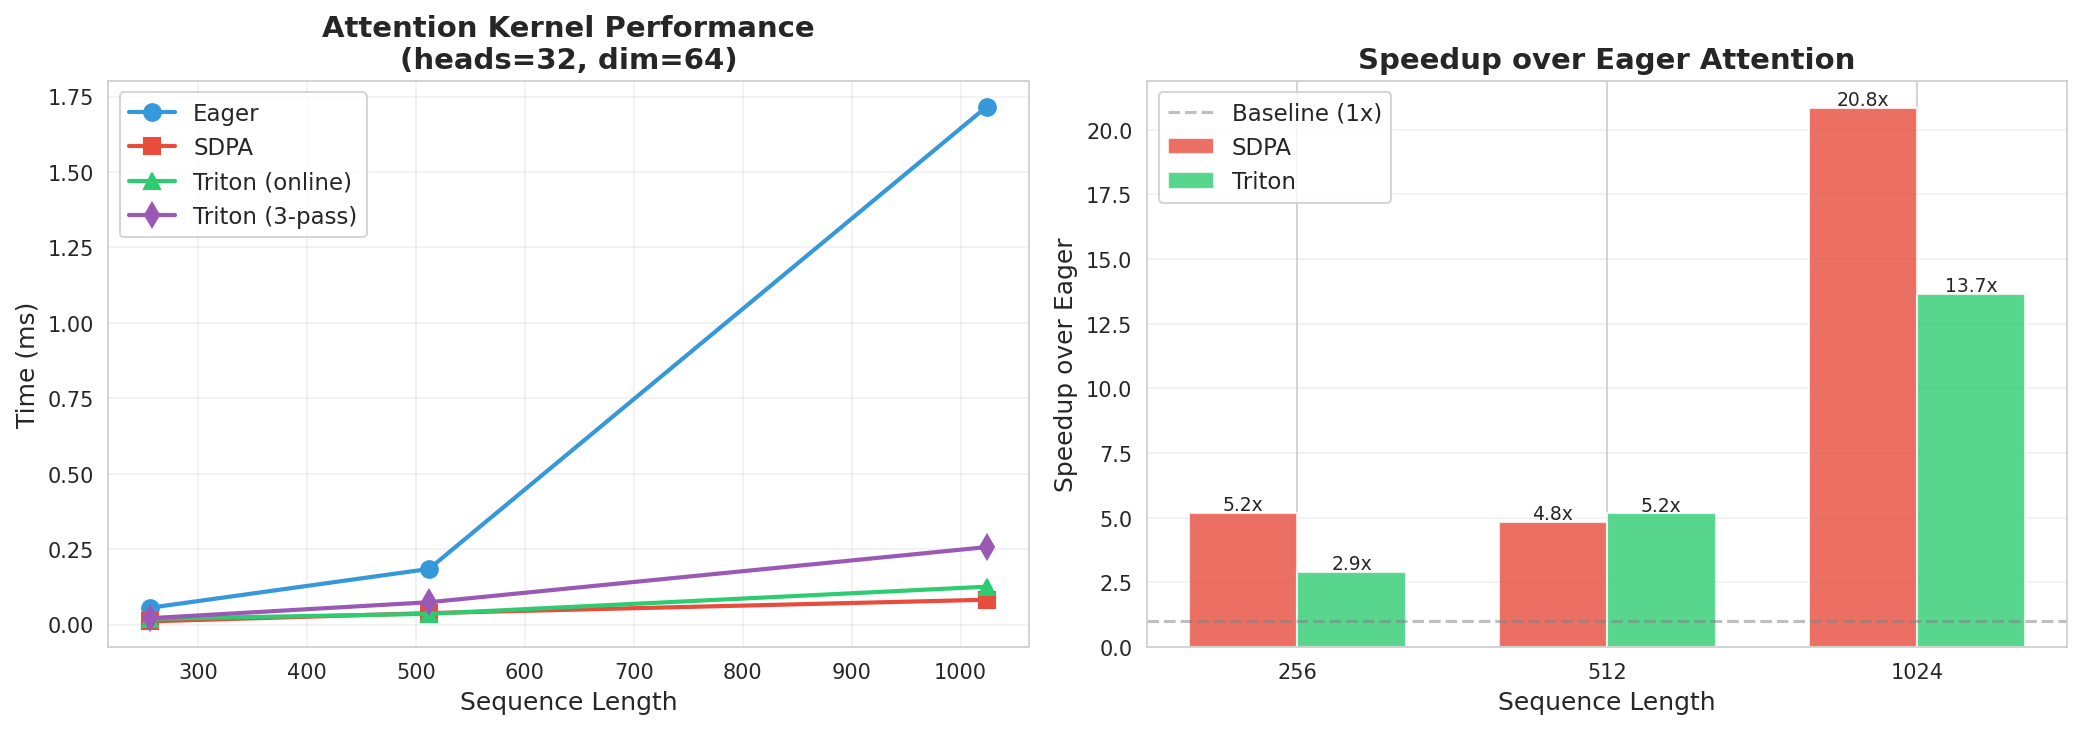
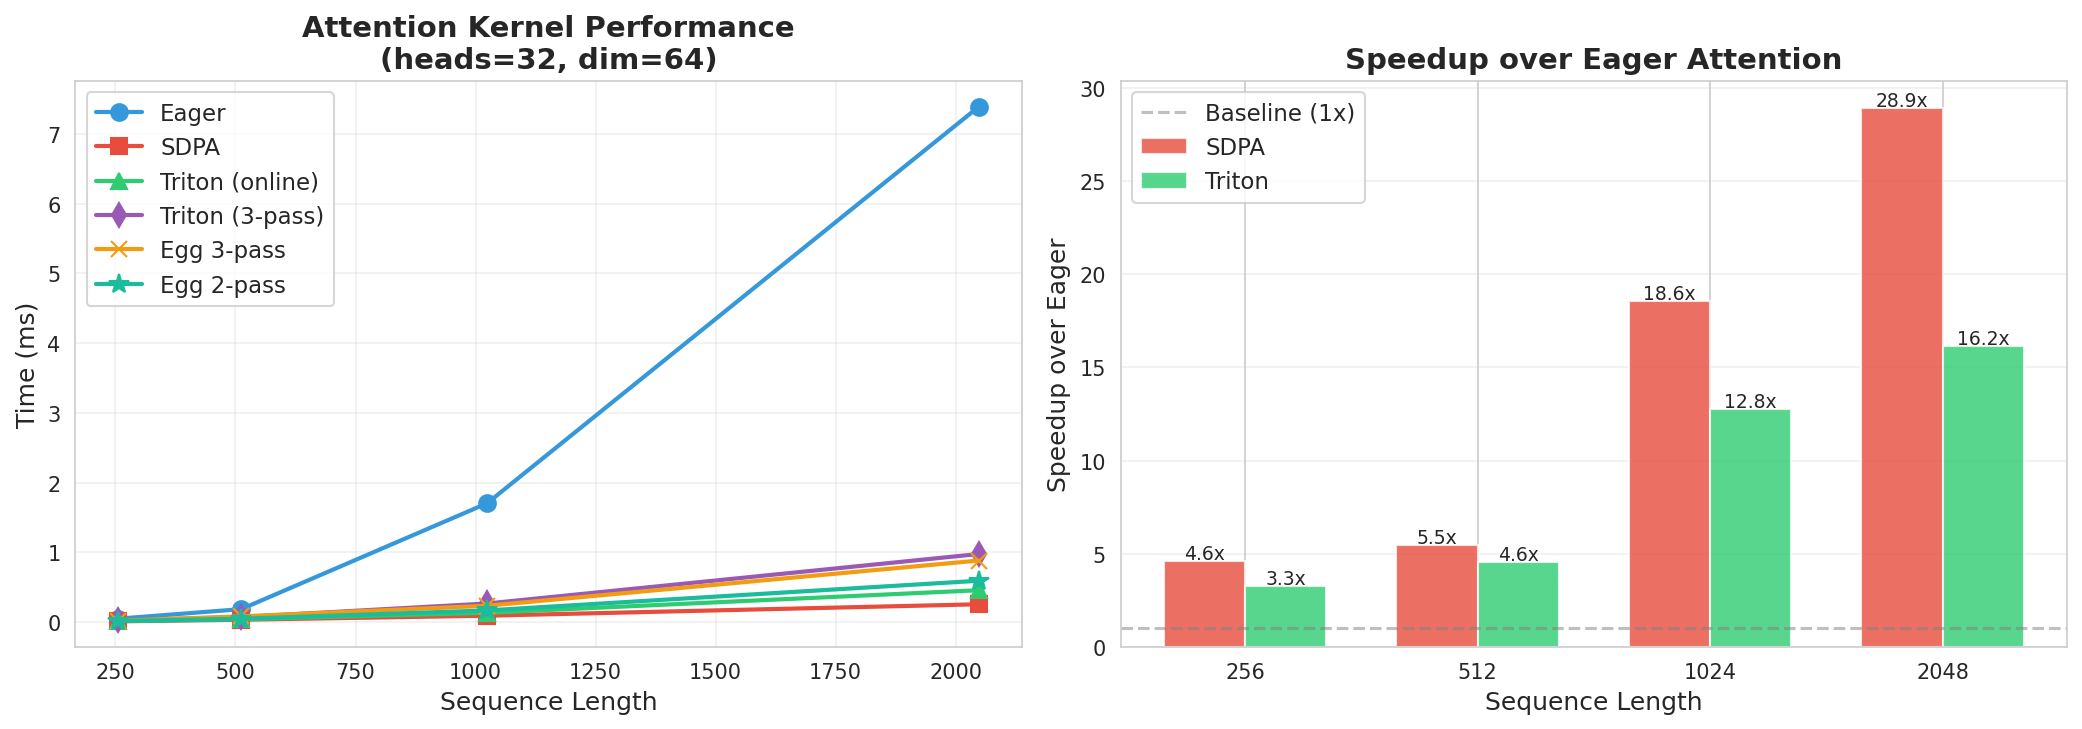
feat: added 2 pass parser

diff --git a/kernel_benchmark.py b/kernel_benchmark.py
@@ -24,6 +24,10 @@ import seaborn as sns
 # Import our Triton implementations
 from triton_attention import triton_naive_attention, triton_truly_naive_attention
 
+# Import egglog-generated attention kernels
+from generated_attention import egg_attention_triton as egg_3pass_attention
+from generated_2pass_attention import egg_attention_2pass_triton as egg_2pass_attention
+
 
 # ============================================================================
 # Attention Implementations
@@ -79,6 +83,27 @@ def triton_truly_naive(Q, K, V, scale, causal=True):
     return triton_truly_naive_attention(Q, K, V, scale=scale, causal=causal)
 
 
+def egg_3pass(Q, K, V, scale, causal=True):
+    """
+    Egglog-generated 3-pass attention (no causal support yet)
+    - Pass 1: Compute QK, find row max
+    - Pass 2: Compute exp sum
+    - Pass 3: Compute output
+    """
+    # Note: egglog-generated kernel doesn't support causal masking yet
+    return egg_3pass_attention(Q, K, V, scale=scale)
+
+
+def egg_2pass(Q, K, V, scale, causal=True):
+    """
+    Egglog-generated 2-pass tiled attention (FuseMax algorithm)
+    - Pass 1: Find global max from local tile maxes
+    - Pass 2: Apply correction factor, compute output
+    """
+    # Note: egglog-generated kernel doesn't support causal masking yet
+    return egg_2pass_attention(Q, K, V, scale=scale)
+
+
 # ============================================================================
 # Verification
 # ============================================================================
@@ -91,20 +116,32 @@ def verify_correctness(Q, K, V, scale, tolerance=0.01):
         True if all implementations match within tolerance
     """
     with torch.no_grad():
+        # Causal versions
         out_eager = eager_attention(Q, K, V, scale, causal=True)
         out_sdpa = sdpa_attention(Q, K, V, scale, causal=True)
         out_triton = triton_attention(Q, K, V, scale, causal=True)
         out_truly_naive = triton_truly_naive(Q, K, V, scale, causal=True)
 
+        # Non-causal reference for egglog kernels
+        out_eager_nc = eager_attention(Q, K, V, scale, causal=False)
+        out_egg_3pass = egg_3pass(Q, K, V, scale, causal=False)
+        out_egg_2pass = egg_2pass(Q, K, V, scale, causal=False)
+
     diff_sdpa = (out_eager - out_sdpa).abs().max().item()
     diff_triton = (out_eager - out_triton).abs().max().item()
     diff_truly_naive = (out_eager - out_truly_naive).abs().max().item()
+    diff_egg_3pass = (out_eager_nc - out_egg_3pass).abs().max().item()
+    diff_egg_2pass = (out_eager_nc - out_egg_2pass).abs().max().item()
 
     print(f"  Max diff eager vs SDPA:         {diff_sdpa:.6f}")
     print(f"  Max diff eager vs Triton:       {diff_triton:.6f}")
     print(f"  Max diff eager vs Truly Naive:  {diff_truly_naive:.6f}")
+    print(f"  Max diff eager vs Egg 3-pass:   {diff_egg_3pass:.6f} (non-causal)")
+    print(f"  Max diff eager vs Egg 2-pass:   {diff_egg_2pass:.6f} (non-causal)")
 
-    passed = diff_sdpa < tolerance and diff_triton < tolerance and diff_truly_naive < tolerance
+    passed = (diff_sdpa < tolerance and diff_triton < tolerance and
+              diff_truly_naive < tolerance and diff_egg_3pass < tolerance and
+              diff_egg_2pass < tolerance)
     return passed
 
 
@@ -213,7 +250,9 @@ def main():
         "eager": {},
         "sdpa": {},
         "triton": {},
-        "truly_naive": {}
+        "truly_naive": {},
+        "egg_3pass": {},
+        "egg_2pass": {},
     }
 
     for seq_len in seq_lengths:
@@ -278,29 +317,57 @@ def main():
             print(f"  Triton (truly naive): FAILED ({e})")
             results["truly_naive"][seq_len] = float('inf')
 
+        # Egglog-generated 3-pass (non-causal)
+        try:
+            egg_3pass_time = benchmark_kernel(
+                egg_3pass, Q, K, V, scale, False,  # non-causal
+                warmup=args.warmup, iters=args.iters
+            )
+            results["egg_3pass"][seq_len] = egg_3pass_time
+            print(f"  Egg 3-pass:           {egg_3pass_time:.3f} ms (non-causal)")
+        except Exception as e:
+            print(f"  Egg 3-pass:           FAILED ({e})")
+            results["egg_3pass"][seq_len] = float('inf')
+
+        # Egglog-generated 2-pass (non-causal)
+        try:
+            egg_2pass_time = benchmark_kernel(
+                egg_2pass, Q, K, V, scale, False,  # non-causal
+                warmup=args.warmup, iters=args.iters
+            )
+            results["egg_2pass"][seq_len] = egg_2pass_time
+            print(f"  Egg 2-pass:           {egg_2pass_time:.3f} ms (non-causal)")
+        except Exception as e:
+            print(f"  Egg 2-pass:           FAILED ({e})")
+            results["egg_2pass"][seq_len] = float('inf')
+
         # Clear cache between sequence lengths
         torch.cuda.empty_cache()
 
     # Print summary table
-    print("\n" + "=" * 60)
+    print("\n" + "=" * 90)
     print("BENCHMARK SUMMARY")
-    print("=" * 60)
+    print("=" * 90)
 
-    header = f"{'Seq Len':<10} {'Eager':<10} {'SDPA':<10} {'Triton':<10} {'TrulyNaive':<12}"
+    header = f"{'Seq Len':<10} {'Eager':<10} {'SDPA':<10} {'Triton':<10} {'TrulyNaive':<12} {'Egg3Pass':<10} {'Egg2Pass':<10}"
     print(header)
-    print("-" * 52)
+    print("-" * 72)
 
     for seq_len in seq_lengths:
         eager_t = results["eager"].get(seq_len, float('inf'))
         sdpa_t = results["sdpa"].get(seq_len, float('inf'))
         triton_t = results["triton"].get(seq_len, float('inf'))
         truly_naive_t = results["truly_naive"].get(seq_len, float('inf'))
+        egg_3pass_t = results["egg_3pass"].get(seq_len, float('inf'))
+        egg_2pass_t = results["egg_2pass"].get(seq_len, float('inf'))
 
         row = f"{seq_len:<10} "
         row += f"{eager_t:<10.2f} " if eager_t != float('inf') else f"{'SKIP':<10} "
         row += f"{sdpa_t:<10.2f} " if sdpa_t != float('inf') else f"{'FAIL':<10} "
         row += f"{triton_t:<10.2f} " if triton_t != float('inf') else f"{'FAIL':<10} "
-        row += f"{truly_naive_t:<12.2f}" if truly_naive_t != float('inf') else f"{'FAIL':<12}"
+        row += f"{truly_naive_t:<12.2f} " if truly_naive_t != float('inf') else f"{'FAIL':<12} "
+        row += f"{egg_3pass_t:<10.2f} " if egg_3pass_t != float('inf') else f"{'FAIL':<10} "
+        row += f"{egg_2pass_t:<10.2f}" if egg_2pass_t != float('inf') else f"{'FAIL':<10}"
 
         print(row)
 
@@ -333,6 +400,10 @@ def main():
                 marker='^', linewidth=2, markersize=8, label='Triton (online)', color='#2ecc71')
         ax1.plot(valid_seq_lens, [results["truly_naive"][s] for s in valid_seq_lens],
                 marker='d', linewidth=2, markersize=8, label='Triton (3-pass)', color='#9b59b6')
+        ax1.plot(valid_seq_lens, [results["egg_3pass"][s] for s in valid_seq_lens],
+                marker='x', linewidth=2, markersize=8, label='Egg 3-pass', color='#f39c12')
+        ax1.plot(valid_seq_lens, [results["egg_2pass"][s] for s in valid_seq_lens],
+                marker='*', linewidth=2, markersize=10, label='Egg 2-pass', color='#1abc9c')
 
     ax1.set_xlabel('Sequence Length', fontsize=12)
     ax1.set_ylabel('Time (ms)', fontsize=12)
@@ -405,12 +476,15 @@ def main():
     # Save CSV
     csv_path = os.path.join(results_dir, f'kernel_benchmark_h{num_heads}_d{head_dim}.csv')
     with open(csv_path, 'w') as f:
-        f.write("Sequence_Length,Eager_ms,SDPA_ms,Triton_online_ms,Triton_3pass_ms\n")
+        f.write("Sequence_Length,Eager_ms,SDPA_ms,Triton_online_ms,Triton_3pass_ms,Egg_3pass_ms,Egg_2pass_ms\n")
         for seq_len in valid_seq_lens:
             eager_t = results["eager"].get(seq_len, float('inf'))
             truly_naive_t = results["truly_naive"].get(seq_len, float('inf'))
+            egg_3pass_t = results["egg_3pass"].get(seq_len, float('inf'))
+            egg_2pass_t = results["egg_2pass"].get(seq_len, float('inf'))
             f.write(f"{seq_len},{eager_t:.3f},{results['sdpa'][seq_len]:.3f},"
-                    f"{results['triton'][seq_len]:.3f},{truly_naive_t:.3f}\n")
+                    f"{results['triton'][seq_len]:.3f},{truly_naive_t:.3f},"
+                    f"{egg_3pass_t:.3f},{egg_2pass_t:.3f}\n")
     print(f"Results saved to: {csv_path}")
 
 
